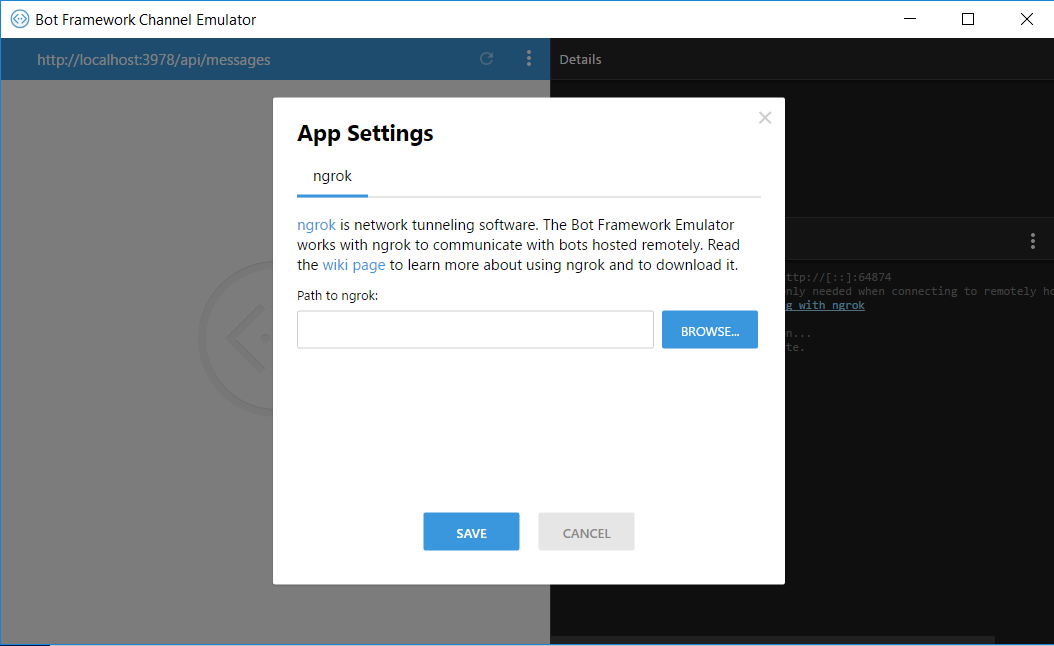
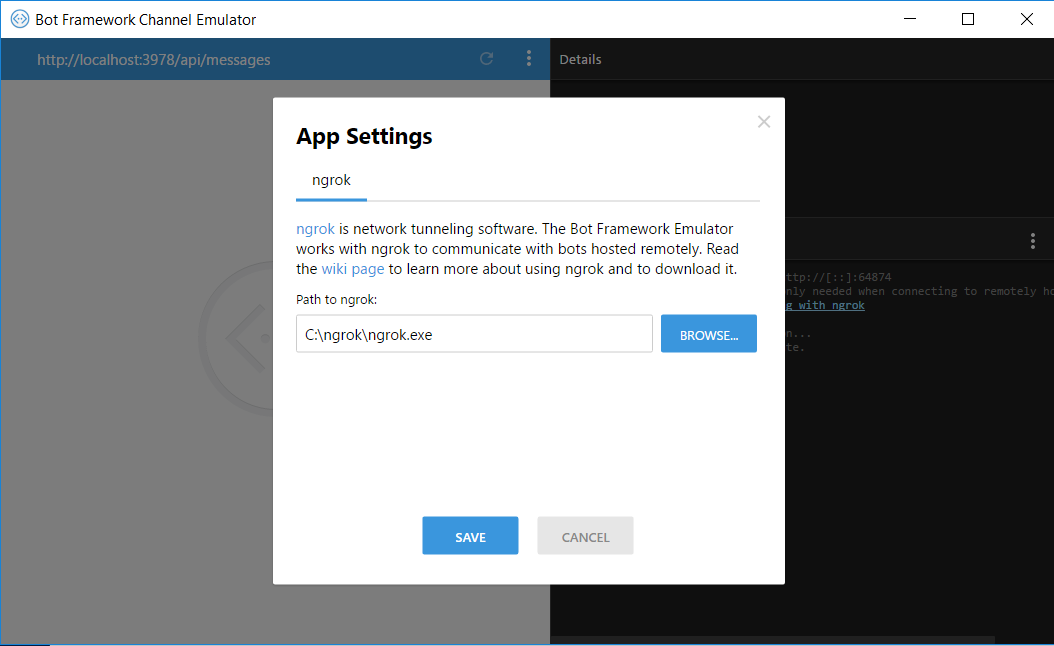
updates to a few sections, including system activities

Changed region(s): [[0.2732, 0.1858, 0.7287, 0.5573], [0.3947, 0.774, 0.6072, 0.8669]]

diff --git a/articles/bot-framework-emulator.md b/articles/bot-framework-emulator.md
@@ -19,37 +19,18 @@ The Bot Framework Emulator is a desktop application that allows bot developers t
 You use the emulator to inspect the messages that your bot sends and receives to ensure they are properly configured. 
 The emulator displays messages as they would appear in a web chat UI and lets you view JSON responses from your bot. <!-- and log -->
 
-When you develop your bot, try your Bot's web service locally in the emulator first, before deploying to the cloud. 
-A main advantage of using the emulator is that you don't have register it with the Bot Framework or configure it on a channel before you can test it. 
+> [!TIP] 
+> When you develop your bot, try your Bot's web service locally in the emulator first, before deploying to the cloud. 
+> A main advantage of using the emulator is that you don't have register it with the Bot Framework or configure it on a channel before you can test it. 
 
 
-
-<!-- TODO: Section on rendering for non web-chat channels without rich card support -->
-<!-- TODO: New screenshot showing both JSON and cards -->
-
-<!--
-
-It's one of your most powerful tools in building your bot, including the following features:
-
-* Support for Mac, Linux and Windows
-* Support for all the Bot Framework card types
-* Multiple profiles for when you’re working locally or remotely  (TODO: How do you do this? )
-* Simplifies configuration for working with ngrok
-* Uses the webchat control for higher fidelity layout and consistency with the webchat experience
-* Send requests and receive responses to/from your bot endpoint on localhost 
-* Inspect the JSON response from the bot
-* Emulate a specific user and/or conversation (TODO: How do you do this? )
--->
-
-<!--TODO: alt-text -->
-![EmulatorUI](media/emulator/emulator-ui-new.png)
+![Emulator UI](media/emulator/emulator-ui-new.png)
 
 ## Before you get started
 * Download and run the Bot Framework Emulator. Download packages for Mac, Windows, and Linux are available from the [GitHub releases page](https://github.com/Microsoft/BotFramework-Emulator/releases). The latest Windows installer is available from the [emulator download page](https://emulator.botframework.com) (download starts immediately).
 * Know what to enter for your bot's endpoint into the emulator's address bar. This value differs based on whether your bot is [running on localhost](#localhost), [hosted remotely](#remotehost), or [running as an Azure Bot service](#azurehost).
 * If your bot is running with Microsoft Account (MSA) credentials, have those credentials ready too.
-* If your bot is hosted remotely, ensure that [ngrok tunneling software](#ngrok) is installed and configured. The Bot Framework Emulator is tightly integrated with ngrok and can launch it for you when needed. 
-<!-- Learn more about what ngrok is, how the emulator utilizes ngrok, and how to configure it. -->
+* If your bot is hosted remotely, ensure that [ngrok tunneling software](#ngrok) is installed and configured so that the emulator can communication with the service.
 
 ## <a id="localhost"></a> Connect to a bot running on localhost
 When developing a bot using the BotBuilder SDK, the default endpoint for local debugging is http://localhost:3978/api/messages. This is where the bot will be listening for messages when hosted locally.
@@ -58,29 +39,25 @@ For localhost debugging you will not typically need to enter the MSA appId or pa
 
 To connect, enter your bot's endpoint into the address bar and click on the Connect button:
 
-![ConnectingToEmulatorLocalHost](media/emulator/emulator-connect_localhost_credentials.png)
+![Connecting to emulator using localhost](media/emulator/emulator-connect_localhost_credentials.png)
 
 ## <a id="remotehost"></a> Connect to a bot hosted remotely
 This scenario is similar to the localhost scenario, but with two additional requirements:
 * You will need to enter your bot's MSA appId and password.
 * You must run tunneling software [(ngrok)](#ngrok) so that the remotely hosted bot can reply to you.  
-<!-- TODO: Add link to Register, Deploy, Configure -->
+
 
 If you registered your bot with the Bot Framework, you can retrieve endpoint and MSA appId from its registration page. If you do not already know the MSA password of your bot, 
 a new one can be generated from the <a href="https://dev.botframework.com/" target="_blank">registration page</a>.
 
-![Dashboard](media/emulator/dashboard.png)
+![Bot Framework Developer Dashboard](media/emulator/dashboard.png)
 
 ## <a id="azurehost"></a> Connect to an Azure Bot service
 This scenario is similar to the [remotely hosted scenario](#remotehost), in that when you create an [Azure Bot Service][AzureBotServices], 
 a registration for it is created with the Bot Framework. You can find your endpoint on your bot's registration page on the <a href="https://dev.botframework.com/" target="_blank">Bot Framework Dev Portal</a>.
 
-<!--
-![Dashboard](media/emulator/dashboard.png) -->
-
-<!-- "... but there are extra steps involved in discovering your bot's endpoint. " <!-- is this true? -->
-An additional step involved in [debugging Azure Bot Service Bots][AzureBotDebug] is if you want to debug your bot's code in your IDE, instead of relying only on the visual inspection and logs provided by the emulator,
-you must set up [continuous integration][AzureBotContinuousIntegration].
+> [!TIP]
+> If you want to [debug your Azure Bot Service Bot][AzureBotDebug] code in your IDE, instead of relying only on the visual inspection and logs provided by the emulator, you can set up [continuous integration][AzureBotContinuousIntegration].
 
 ## <a id="ngrok"></a>Using ngrok
 If you're running the Bot Framework Emulator behind a firewall or other network boundary and want to connect to a bot hosted remotely, you will need to install and configure tunneling software.
@@ -93,24 +70,28 @@ The Bot Framework Emulator integrates tightly with ngrok and can launch it for y
 
 1. Download the [ngrok][ngrokDownload] executable to your local machine
 2. Configure the path to ngrok in the emulator's App Settings dialog
+![Setting the path to ngrok](media/emulator/emulator-configure_ngrok_path.png)
 
-![EmulatorNgrokPath](media/emulator/emulator-configure_ngrok_path.png)
+When the emulator connects to a remotely hosted bot, it displays messages in its log that indicate it's automatically launched ngrok.
 
-1. Verify that the emulator is able to successfully launch ngrok.
-
-![EmulatorNgrokMonitor](media/emulator/emulator-testbot-ngrok-monitoring.png)
-
-If you've followed these steps but the emulator is not able to launch ngrok, ensure you have ngrok version 2.1.18 or later. Earlier versions have been known to be incompatible.
+If you've followed these steps but the emulator's log indicates that it is not able to launch ngrok, ensure you have ngrok version 2.1.18 or later. Earlier versions have been known to be incompatible.
 To check ngrok's version, from the command line:
 
 <code>ngrok -v</code>
 
-<!-- This is in Troubleshooting Guide
-## Debugging your bot
+## Sending System Activities
+The Bot Framework Emulator lets you send messages that represent [activities][ActivityConcept]. This feature allows you to emulate a specific user or conversation.
 
-* **Try a blank ID and password**. Using a blank "Microsoft App Id" and "Microsoft App Password" in the emulator and web.config (while keeping the BotAuthentication attribute) will allow you to rule out authentication as a possible issue.
-* **Inspect HTTPS method calls**. Since the exchange of chat messages will likely result in several HTTPS method calls, it's important to make sure that they all succeed.  You can see the result of every HTTPS method call by selecting the different items in the list view on the left-hand side of the emulator window.
---> 
+You can find the following activities under **Conversation** > **Send System Activity** in the emulator's settings menu:
+* conversationUpdate (user added)
+* conversationUpdate (user removed)
+* contactRelationUpdate (bot added)
+* contactRelationUpdate (bot removed)
+* typing
+* ping 
+* deleteUserData
+
+
 ## Troubleshooting
 
 ### Where can I find more information on using the emulator for debugging?
@@ -119,38 +100,34 @@ For more tips on troubleshooting and debugging your bot, see the [Bot Framework 
 ### How do I use the emulator to troubleshoot authentication problems?
 See [Troubleshooting Authentication issues][TroubleshootingAuth].
 
-### How can I reset the Bot Framework Emulator's settings?
-
-You can remove the emulator.service file in `%temp%` with `erase %temp%\emulator.service`. <!-- TODO: Where do you run this -->
-
-
-### What is the difference between the "Bot Url" and "Emulator Url" in the emulator?
-
-The "Bot Url" is the web service url that executes your Bot's code.  The "Emulator Url" is a *different* web service url that emulates the Bot Framework Connector service.  They should not be the same.  Generally, you will want to leave the "Emulator Url" as the default value, and update the "Bot Url" to the url for your Bot web service. <!-- TODO: Where is this? -->
-
-<!-- 
-> [!NOTE]
-> More content coming soon.
--->
 
 ## Next Steps
-
-For more tips on troubleshooting and debugging your bot, see the [Bot Framework Troubleshooting Guide][TroubleshootingGuide].
 
 To get started building a simple bot that you can try with the emulator, see:
 * [Create a bot with the Bot Builder SDK for Node.js][NodeGetStarted].
 * [Create a bot with the Bot Builder SDK for .NET][CSGetStarted].
-<!-- Links -->
+
+For more information on how to register, configure and deploy your bot, see:
+* [Publish a bot with the Bot Framework][BotFrameworkPublishOverview]
+
+The Bot Framework Emulator is open source. To contribute or file bugs and suggestions, see:
+* [How to Contribute][EmulatorGithubContribute]
+* [Submitting Bugs and Suggestions][EmulatorGithubBugs]
+
+
 [EmulatorGithub]: https://github.com/Microsoft/BotFramework-Emulator
-
-
+<!-- NOTE: I think the details of how to contribute, like the Contributor License Agreement, 
+should remain on GitHub instead of here -->
+[EmulatorGithubContribute]: https://github.com/Microsoft/BotFramework-Emulator/wiki/How-to-Contribute
+[EmulatorGithubBugs]: https://github.com/Microsoft/BotFramework-Emulator/wiki/Submitting-Bugs-%26-Suggestions
 
 [ngrokDownload]: https://ngrok.com/
 [inconshreveable]: https://inconshreveable.com/
 [BotFrameworkDevPortal]: https://dev.botframework.com/
-[AzureBotServices]: https://docs.botframework.com/en-us/azure-bot-service/
 
-<!--TODO: Update these links to point to new content -->
+
+<!--TODO: Update these links to point to new content when it's available -->
+[AzureBotServices]: https://docs.botframework.com/en-us/azure-bot-service/
 [AzureBotContinuousIntegration]: https://docs.botframework.com/en-us/azure-bot-service/manage/setting-up-continuous-integration/#navtitle
 [AzureBotDebug]: https://docs.botframework.com/en-us/azure-bot-service/manage/debug/#navtitle
 [AzureBotDebugCS]: https://docs.botframework.com/en-us/azure-bot-service/manage/debug/#debugging-c-bots-built-using-the-azure-bot-service-on-windows
@@ -164,4 +141,6 @@ To get started building a simple bot that you can try with the emulator, see:
 [TroubleshootingAuth]: bot-framework-troubleshooting-auth.md
 [NodeGetStarted]: bot-framework-nodejs-getstarted.md
 [CSGetStarted]: bot-framework-dotnet-getstarted.md
+[BotFrameworkPublishOverview]: bot-framework-publish-overview.md
+[ActivityConcept]: bot-framework-activity-concept.md
 
